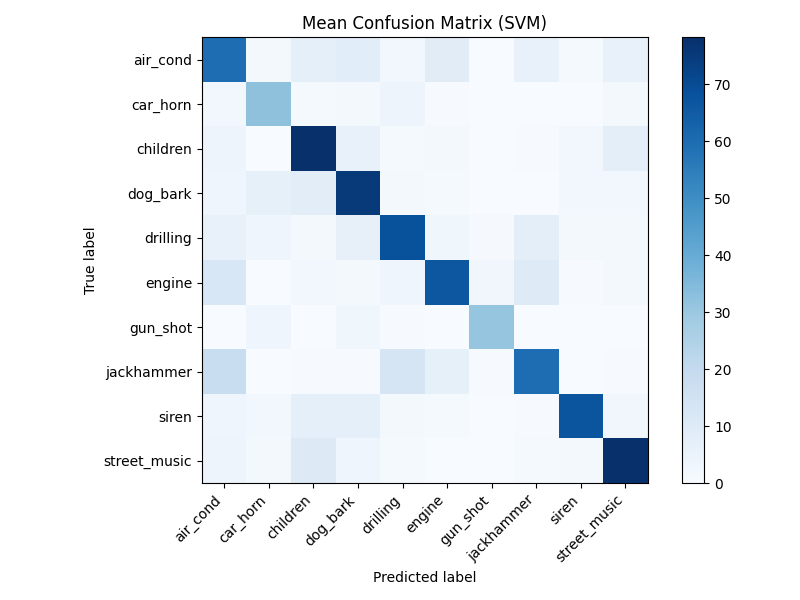
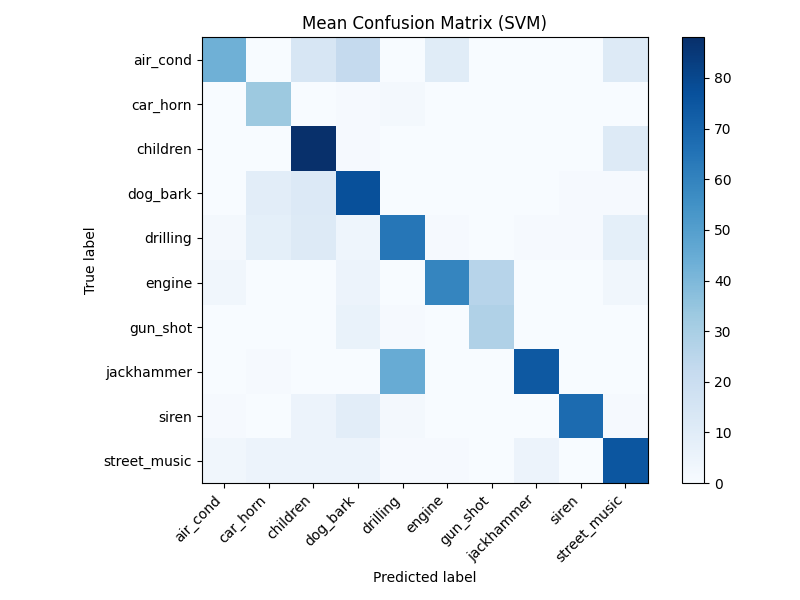
adjusted tune values  (taking to long to run main)

diff --git a/rf_model.py b/rf_model.py
@@ -2,31 +2,69 @@
 from sklearn.ensemble import RandomForestClassifier
 from sklearn.metrics import precision_recall_fscore_support
 
+
 def tune_rf(X_train, y_train, X_val, y_val):
+    """
+    Performs hyperparameter tuning for a Random Forest classifier using a
+    simple grid search strategy.
+
+    The model is trained on (X_train, y_train) and evaluated on
+    (X_val, y_val). The selection criterion is the macro F1-score.
+
+    Parameters:
+    - X_train, y_train: training feature vectors and labels
+    - X_val, y_val    : validation feature vectors and labels
+
+    Returns:
+    - best_model : trained Random Forest model with the best parameters
+    - best_params: tuple (n_estimators, max_depth, min_samples_split)
+    """
+
+    # Number of trees in the forest.
+    # Values were selected based on previous exploratory experiments.
     n_estimators = [100, 300, 500]
-    max_depths = [None, 20, 40]
+
+    # Maximum depth of each tree.
+    # None allows fully grown trees; 20 limits depth to reduce overfitting.
+    max_depths = [None, 20]
+
+    # Minimum number of samples required to split an internal node.
     min_splits = [2, 5]
 
-    best_f1 = -1
+    # Keep track of the best performing configuration
+    best_f1 = -1.0
     best_model = None
     best_params = None
 
+    # Grid search over all parameter combinations
     for n in n_estimators:
         for d in max_depths:
             for m in min_splits:
+
+                # Initialize Random Forest with current parameters
                 model = RandomForestClassifier(
                     n_estimators=n,
                     max_depth=d,
                     min_samples_split=m,
-                    n_jobs=-1,
-                    random_state=42
+                    n_jobs=-1,        # Use all available CPU cores
+                    random_state=42   # Ensure reproducibility
                 )
+
+                # Train the model on the training set
                 model.fit(X_train, y_train)
+
+                # Predict labels for the validation set
                 preds = model.predict(X_val)
+
+                # Compute macro F1-score (balanced across classes)
                 f1 = precision_recall_fscore_support(
-                    y_val, preds, average="macro", zero_division=0
+                    y_val,
+                    preds,
+                    average="macro",
+                    zero_division=0
                 )[2]
 
+                # Update the best model if performance improves
                 if f1 > best_f1:
                     best_f1 = f1
                     best_model = model

diff --git a/svm_model.py b/svm_model.py
@@ -5,8 +5,8 @@ from sklearn.preprocessing import StandardScaler
 from sklearn.metrics import precision_recall_fscore_support
 
 def tune_svm(X_train, y_train, X_val, y_val):
-    C_values = [1, 5, 10, 20, 50]
-    gamma_values = ["scale", "auto", 0.01, 0.1]
+    C_values = [1, 5]
+    gamma_values = ["scale", "auto"]
 
     best_f1 = -1
     best_model = None

diff --git a/plotting.py b/plotting.py
@@ -32,7 +32,8 @@ def plot_confusion_matrix(
         os.makedirs(os.path.dirname(save_path), exist_ok=True)
         plt.savefig(save_path)
 
-    plt.show()
+    plt.close()
+    #plt.show()
 
 
 def plot_model_comparison(
